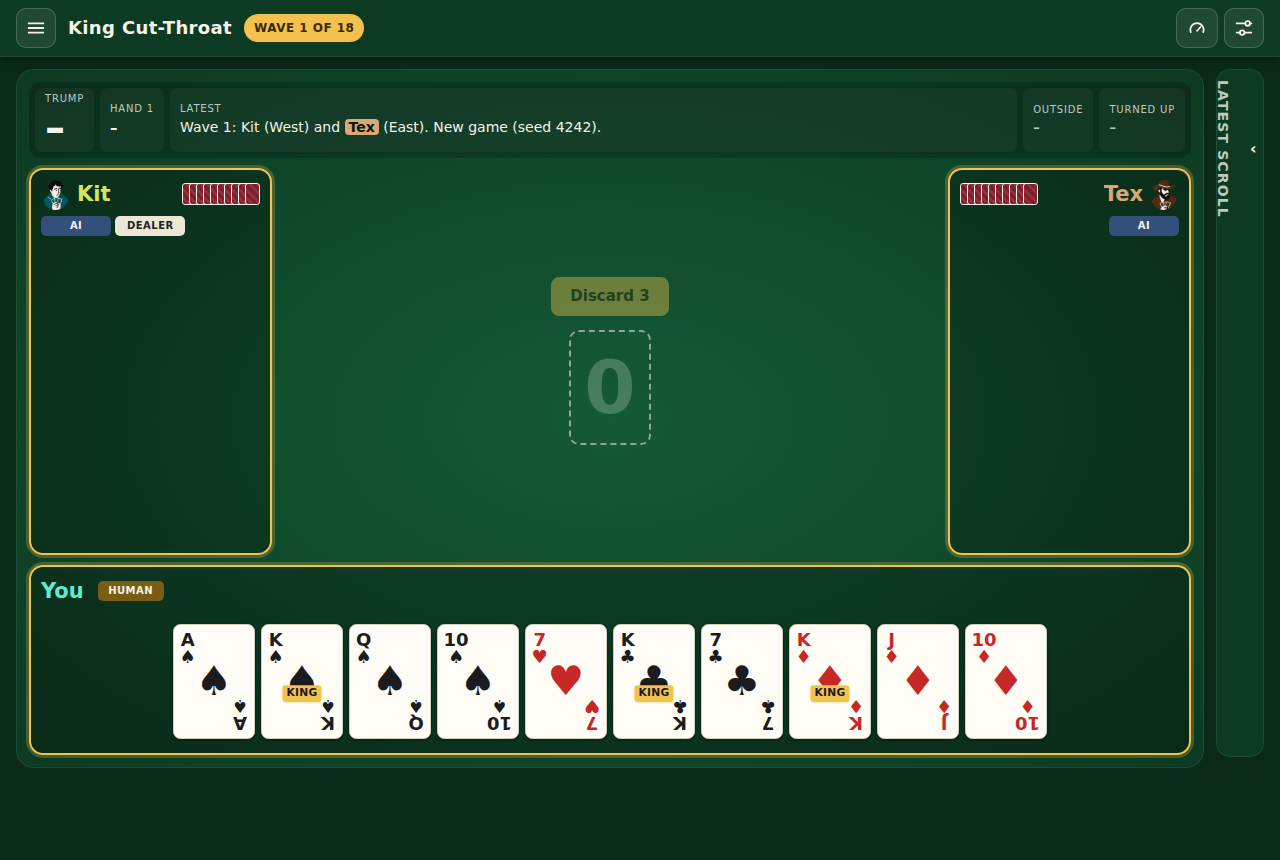
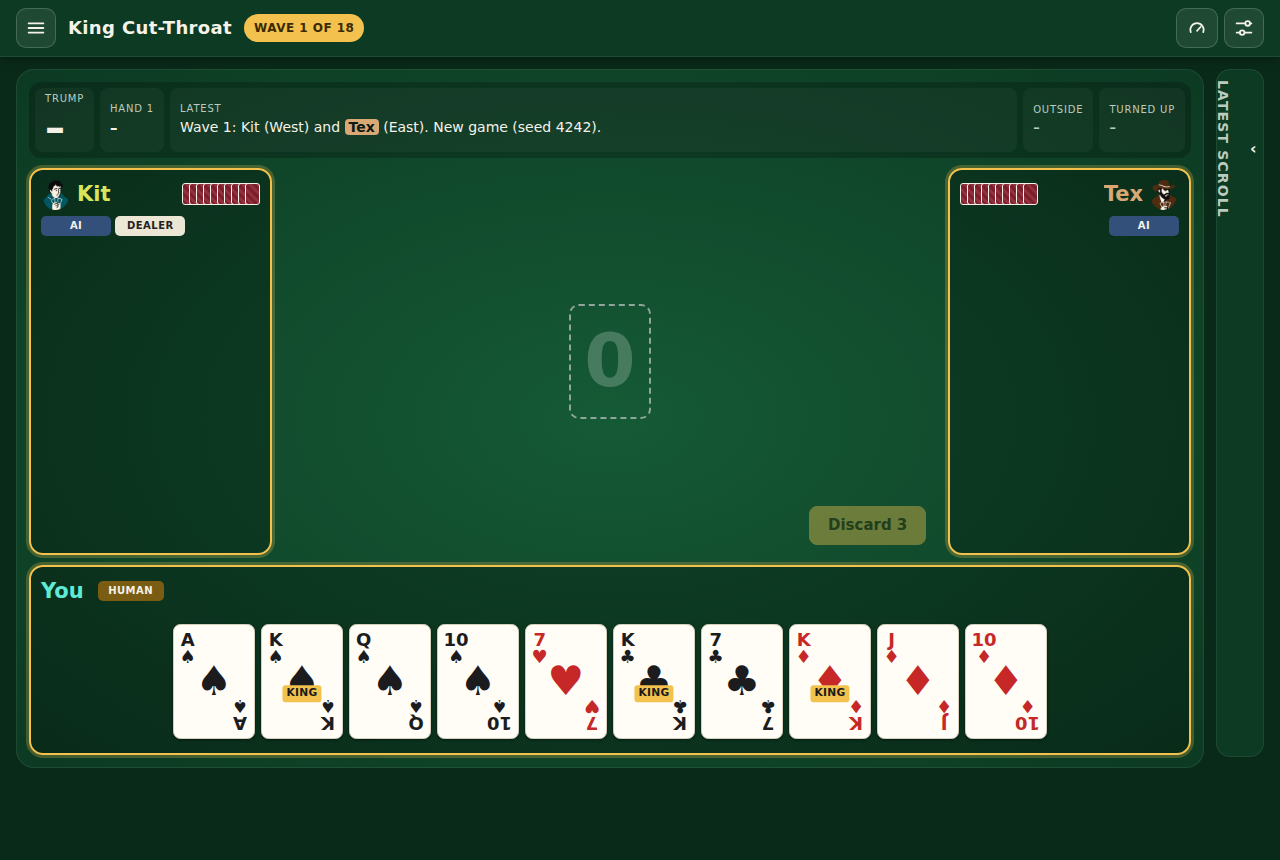
Put the action buttons in the play area's bottom corner
Regular mode: bottom right, the primary action rightmost (Accept,
Discard) with Pass to its left. Left-hand mode, a future setting,
mirrors it: bottom left, primary action leftmost. phases.js adds a
left-hand view of the round 1 bid.

Claude-Session: https://claude.ai/code/session_01QkpazkapUFZWg4SWZB1dDA

Changed region(s): [[0.4062, 0.3023, 0.5312, 0.4837], [0.625, 0.5744, 0.75, 0.6349]]

diff --git a/mockups/advanced.js b/mockups/advanced.js
@@ -127,6 +127,10 @@ const css = `
 .kpile{position:relative;width:calc(var(--kw)*(1 + 2 * .45));height:calc(var(--kw)*1.4)}
 .kpile .card{position:absolute;top:0;--w:var(--kw);box-shadow:0 2px 5px rgba(0,0,0,.45);transform-origin:50% 90%}
 .kpile .card .cat{position:absolute;left:15%;top:10%;width:70%;height:80%;fill:#000;opacity:.5}
+/* Action buttons: bottom of the play area, right-justified (primary action rightmost, Pass to its left).
+   Left-hand mode (a future setting) mirrors it: bottom left, primary action leftmost. */
+.center > .pile-act{position:absolute;bottom:10px;right:12px;z-index:9;flex-direction:row-reverse}
+html.lefthand .center > .pile-act{right:auto;left:12px;flex-direction:row}
 .pile-act{display:flex;gap:8px}.pile-act .btn{font-size:15px;padding:8px 18px}
 .outpile{position:relative;width:var(--kw);height:calc(var(--kw)*1.4)}
 .outpile .card{position:absolute;left:0;top:0;--w:var(--kw);box-shadow:0 2px 4px rgba(0,0,0,.4)}
@@ -277,3 +281,7 @@ for (const tr of $$('.summary table.stats tbody tr, .summary table.stats tr')) {
 { const me = $('#seat0'), won = $('.me-head .won, #seat0 .won'), hand = $('#hand');
   if (won) me.appendChild(won);
   if (hand) hand.style.setProperty('--n', String(Math.max(2, hand.children.length))); }
+
+// Action buttons to the corner of the play area.
+{ const pa = $('.kitty-spot .pile-act'); if (pa) $('#center').appendChild(pa); }
+if (window.__leftHand) document.documentElement.classList.add('lefthand');

diff --git a/mockups/phases.js b/mockups/phases.js
@@ -52,6 +52,9 @@ const TARGETS = [
     // A second discard view: both bots have discarded, so the outside pile holds 6.
     const d = snaps.find(x => x.name === '1-discard');
     if (d) snaps.push({ ...d, name: '1b-discard-bots-done', vars: { ...d.vars, outside: 6 } });
+    // Left-hand mode (a future setting): the round 1 bid, mirrored action buttons.
+    const b1 = snaps.find(x => x.name === '5-bid1');
+    if (b1) snaps.push({ ...b1, name: '5b-bid1-lefthand', vars: { ...b1.vars, leftHand: true } });
     for (const { name, html, vars } of snaps) {
       for (const [w, h, tag] of [[1280, 860, 'desktop'], [390, 844, 'phone']]) {
         for (const collapsed of tag === 'phone' ? [true] : [false, true]) {
@@ -59,7 +62,7 @@ const TARGETS = [
           await view.setContent(html.replace('<head>', '<head><base href="' + srv.url + '">'));
           await view.evaluate(([src, v, c]) => {
             window.KCT = { App: { app: { state: v.state } } };
-            Object.assign(window, { __turn: v.turn, __led: v.led, __lastWinner: v.lastWinner, __collapsed: c, __outside: v.outside });
+            Object.assign(window, { __turn: v.turn, __led: v.led, __lastWinner: v.lastWinner, __collapsed: c, __outside: v.outside, __leftHand: v.leftHand });
             new Function(src)();
           }, [ADV, vars, collapsed]);
           await view.waitForTimeout(150);
